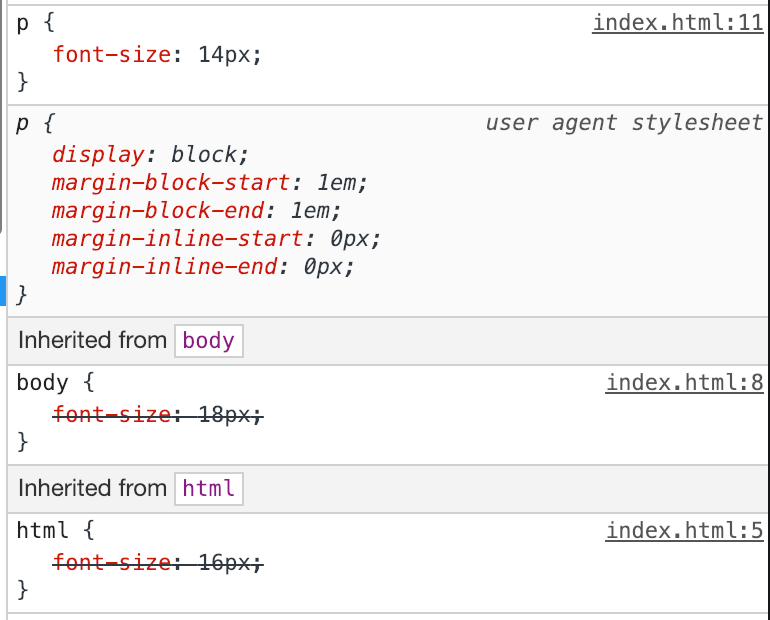
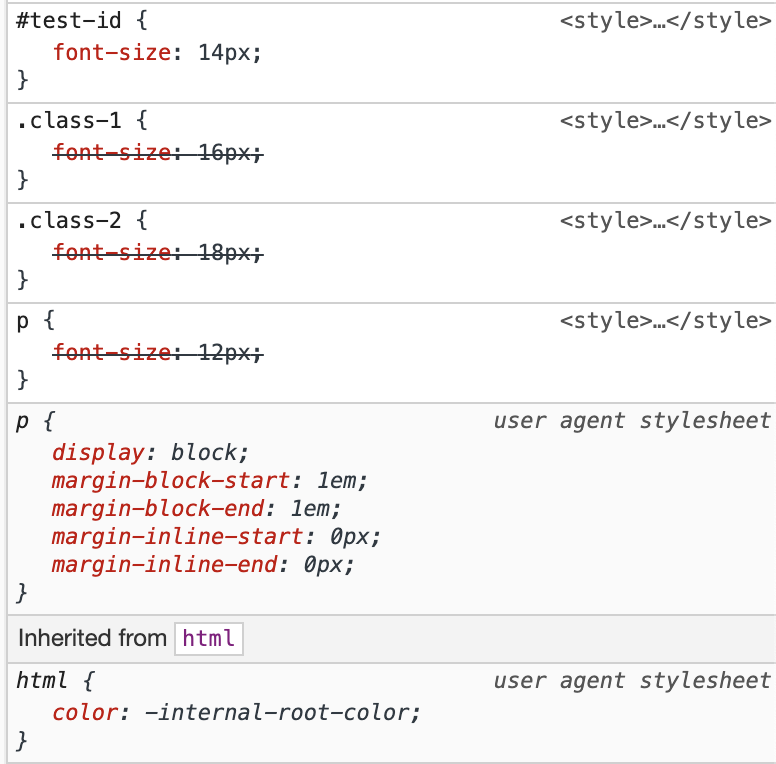
chore: update css cascade article with amendment (#83)
* chore: update css cascade article with amendment

* lock file

* Update tweet styling to global

Changed region(s): [[0.0, 0.0, 1.0, 1.0]]

diff --git a/src/components/post-article/index.module.scss b/src/components/post-article/index.module.scss
@@ -52,6 +52,10 @@
     font-size: remCalc(20px);
   }
 
+  hr {
+    margin: remCalc(44px) 0 remCalc(36px);
+  }
+
   p,
   ul,
   ol,
@@ -132,5 +136,9 @@
 
   tr:hover {
     background: lighten(#efefef, 1%);
+  }
+
+  :global .twitter-tweet-rendered {
+    margin: remCalc(40px) auto;
   }
 }

diff --git a/gatsby-config.js b/gatsby-config.js
@@ -75,6 +75,7 @@ module.exports = {
     'gatsby-plugin-offline',
     'gatsby-plugin-react-helmet',
     'gatsby-plugin-react-svg',
-    'gatsby-plugin-netlify'
+    'gatsby-plugin-netlify',
+    'gatsby-plugin-twitter'
   ]
 };

diff --git a/src/scss/base/_base.scss b/src/scss/base/_base.scss
@@ -13,4 +13,10 @@ body {
   height: 100%;
 }
 
+hr {
+  border: none;
+  height: 1px;
+  background-color: #949494;
+}
+
 @import '../utils/index.module';

diff --git a/src/posts/2019-01-11-im-super-good-at-css-and-i-dont-recommend-the-cascade-dont-@-me/index.md b/src/posts/2019-01-11-im-super-good-at-css-and-i-dont-recommend-the-cascade-dont-@-me/index.md
@@ -3,6 +3,12 @@ title: I’m super good at CSS and I don’t recommend the cascade, don’t @ me
 date: '2019-01-11'
 ---
 
+_**Edit June 3rd 2019:** It was pointed out to me that the code example I was using was infact referencing inheritance and not the cascade, technically. Doh! So I've switched the example to actually show the cascade this time, but the article still holds the same conclustion and point. Just goes to show why CSS is so tricky to handle 😉_
+
+<blockquote class="twitter-tweet"><p lang="en" dir="ltr">I&#39;ve been writing CSS for 20 years.<br>The example given in that article has nothing to do with the cascade.<br>&quot;The cascade takes an unordered list of declared values for a given property on a given element&quot;<br>*Given element* is key when we talk about the cascade <a href="https://t.co/v2K12JHxM3">https://t.co/v2K12JHxM3</a></p>&mdash; Verlan (@ztnelboKyrreihT) <a href="https://twitter.com/ztnelboKyrreihT/status/1135734895836196864?ref_src=twsrc%5Etfw">June 4, 2019</a></blockquote>
+
+---
+
 I’ve been writing CSS for over 13 years. I’ve written CSS for very large news websites, high traffic blogs, micro-sites, small software applications and massive enterprise software applications.
 
 I’m part of the “old guard”. I’ve been around the block enough to know how good it was in the “old days”. To know it was simpler back then. I’ve wrangled IE5.5, I know “how good these kids have it these days”.
@@ -25,32 +31,16 @@ So, the cascade takes a bunch of overlapping CSS declarations, from a bunch of d
 
 OK, consider this little code example:
 
-```html
-<html>
-  <head>
-    <style>
-      html {
-        font-size: 16px;
-      }
-      body {
-        font-size: 18px;
-      }
-      p {
-        font-size: 14px;
-      }
-    </style>
-  </head>
-  <body>
-    <p>I'm 14px in font-size</p>
-  </body>
-</html>
-```
+<iframe height="365" style="width: 100%;" scrolling="no" title="Cascade Example" src="//codepen.io/SiTaggart/embed/mYowoe/?height=265&theme-id=0&default-tab=css,result" frameborder="no" allowtransparency="true" allowfullscreen="true">
+  See the Pen <a href='https://codepen.io/SiTaggart/pen/mYowoe/'>Cascade Example</a> by Simon Taggart
+  (<a href='https://codepen.io/SiTaggart'>@SiTaggart</a>) on <a href='https://codepen.io'>CodePen</a>.
+</iframe>
 
 If you were to inspect the `p` using your browser developer tools, you will likely see the style panel showing you something like the following:
 
-![The chrome style inspector showing html and body font-size declarations struck through, and the p tag declaration overrides both](./cascade-css.png)
+![The chrome style inspector showing p, class-1 and class-2 font-size declarations struck through, and the id test-id selector overrides all three regardless of order](./cascade-css.png)
 
-As you can see the cascade algorithm has declared the `font-size` declaration from the `p` selector, the "winner".
+As you can see the cascade algorithm has declared the `font-size` declaration from the `test-id` id selector, the "winner", regardless of the order in which the selectors are written. This also demostrates how easily styles written by independant teams, targeting the same DOM element, can clash and result in unpredicatable effects on styling.
 
 ## What the cascade isn’t
 
